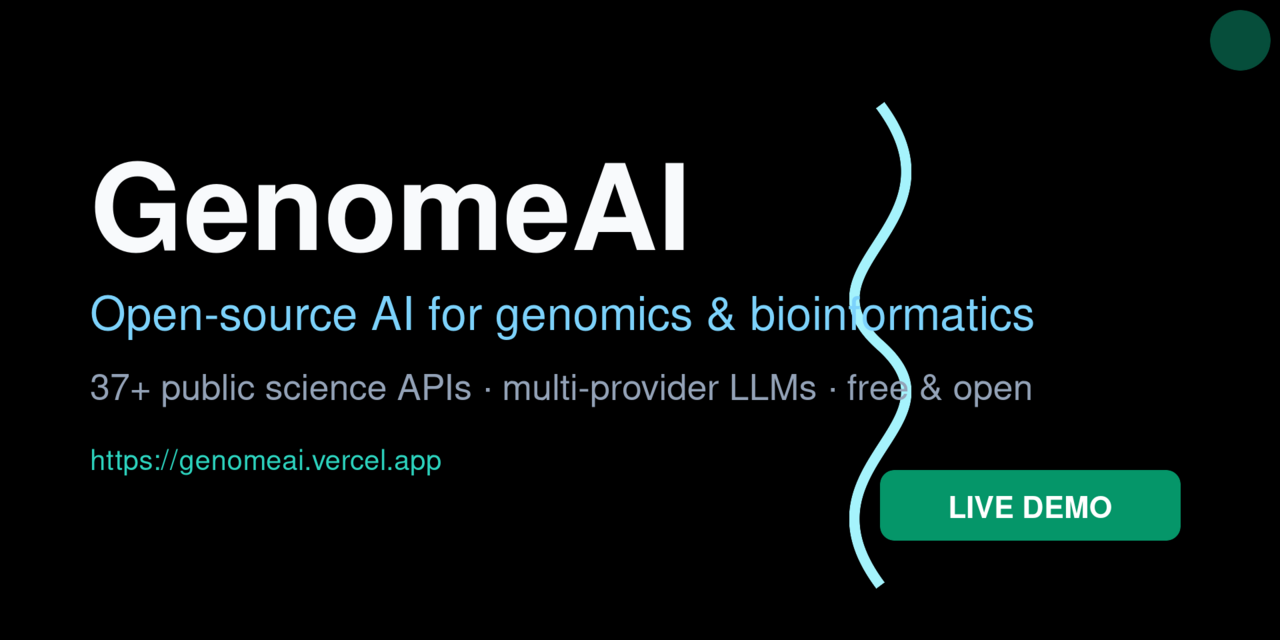
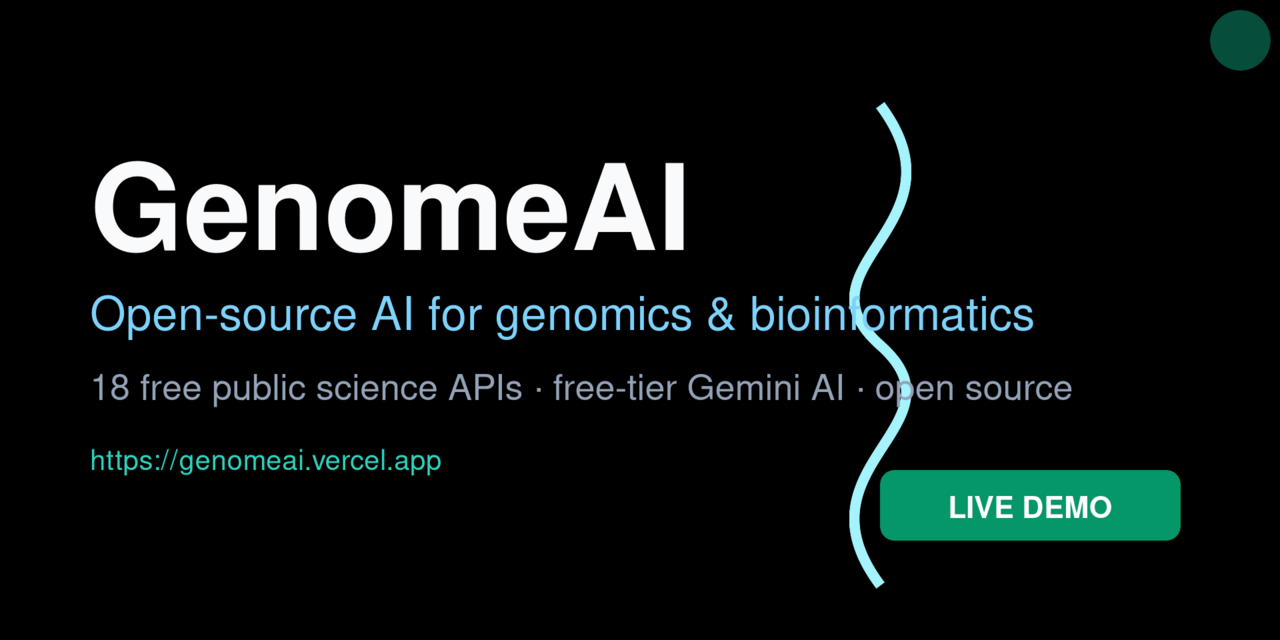
fix: make all public claims accurate (18 real data APIs, not 21/37+)
- web: hero '21 free biological databases' -> 18; stats 18+/0$ -> 18//bin/bash;
  sources list now includes all 18 connectors + Gemini (added DGIdb);
  research console badge/stats -> 18; metadata description -> 18
- OG banner: '37+ public science APIs' -> '18 free public science APIs'
- repo description: '37+ APIs' -> 18 (names listed)

Changed region(s): [[0.0625, 0.5625, 0.8438, 0.625]]

diff --git a/apps/web/src/app/page.tsx b/apps/web/src/app/page.tsx
@@ -55,22 +55,23 @@ const features = [
 
 const sources = [
   'NCBI',
-  'ClinVar',
-  'gnomAD',
   'Ensembl VEP',
   'UniProt',
+  'ClinVar',
+  'gnomAD',
   'PDB',
   'AlphaFold',
-  'Europe PMC',
-  'Semantic Scholar',
   'ChEMBL',
   'PubChem',
   'Reactome',
-  'STRING',
   'KEGG',
+  'STRING',
   'OpenTargets',
-  'Disease Ontology',
   'Monarch',
+  'Disease Ontology',
+  'DGIdb',
+  'Europe PMC',
+  'Semantic Scholar',
   'Gemini AI',
 ]
 
@@ -151,7 +152,7 @@ export default function Home() {
 
           <p className="animate-fade-in-up [animation-delay:200ms] mt-6 max-w-xl text-lg leading-relaxed text-slate-600">
             GenomeAI unifies{' '}
-            <strong className="text-slate-800">21 free biological databases</strong> with free-tier
+            <strong className="text-slate-800">18 free biological databases</strong> with free-tier
             Gemini AI to deliver gene, variant, protein, literature, drug, pathway and disease
             analysis — plus a single executive multi-domain report.
           </p>
@@ -186,8 +187,8 @@ export default function Home() {
           <div className="animate-fade-in-up [animation-delay:400ms] mt-10 flex flex-wrap gap-8">
             {[
               { value: '8', label: 'Analytic domains' },
-              { value: '18+', label: 'Free data APIs' },
-              { value: '0$', label: 'Cost to run' },
+              { value: '18', label: 'Free data APIs' },
+              { value: '$0', label: 'Cost to run' },
               { value: '1', label: 'Unified report' },
             ].map((s) => (
               <div key={s.label}>

diff --git a/apps/web/src/app/research/page.tsx b/apps/web/src/app/research/page.tsx
@@ -64,8 +64,8 @@ const domains = [
 ]
 
 const stats = [
-  { value: '18+', label: 'Free data APIs' },
-  { value: '21', label: 'Data sources' },
+  { value: '18', label: 'Free data APIs' },
+  { value: '18', label: 'Data sources' },
   { value: '8', label: 'Analytic domains' },
   { value: '$0', label: 'Cost to run' },
 ]
@@ -87,7 +87,7 @@ export default function ResearchHome() {
                   <span className="absolute inline-flex h-full w-full animate-ping rounded-full bg-genome-400 opacity-75" />
                   <span className="relative inline-flex h-2 w-2 rounded-full bg-genome-500" />
                 </span>
-                21 free data APIs · Free-tier Gemini AI · Zero cost
+                18 free data APIs · Free-tier Gemini AI · Zero cost
               </div>
               <h1 className="text-4xl font-extrabold tracking-tight text-slate-900 sm:text-5xl">
                 GenomeAI <span className="text-gradient">Research Console</span>

diff --git a/apps/web/src/app/layout.tsx b/apps/web/src/app/layout.tsx
@@ -7,7 +7,7 @@ export const metadata: Metadata = {
     template: '%s · GenomeAI',
   },
   description:
-    'GenomeAI is an open-source genomics research platform combining 21 free biological databases with free-tier Gemini AI to deliver gene, variant, protein, literature, drug, pathway, disease and executive multi-domain analysis.',
+    'GenomeAI is an open-source genomics research platform combining 18 free biological databases with free-tier Gemini AI to deliver gene, variant, protein, literature, drug, pathway, disease and executive multi-domain analysis.',
   keywords: [
     'genomics',
     'bioinformatics',
